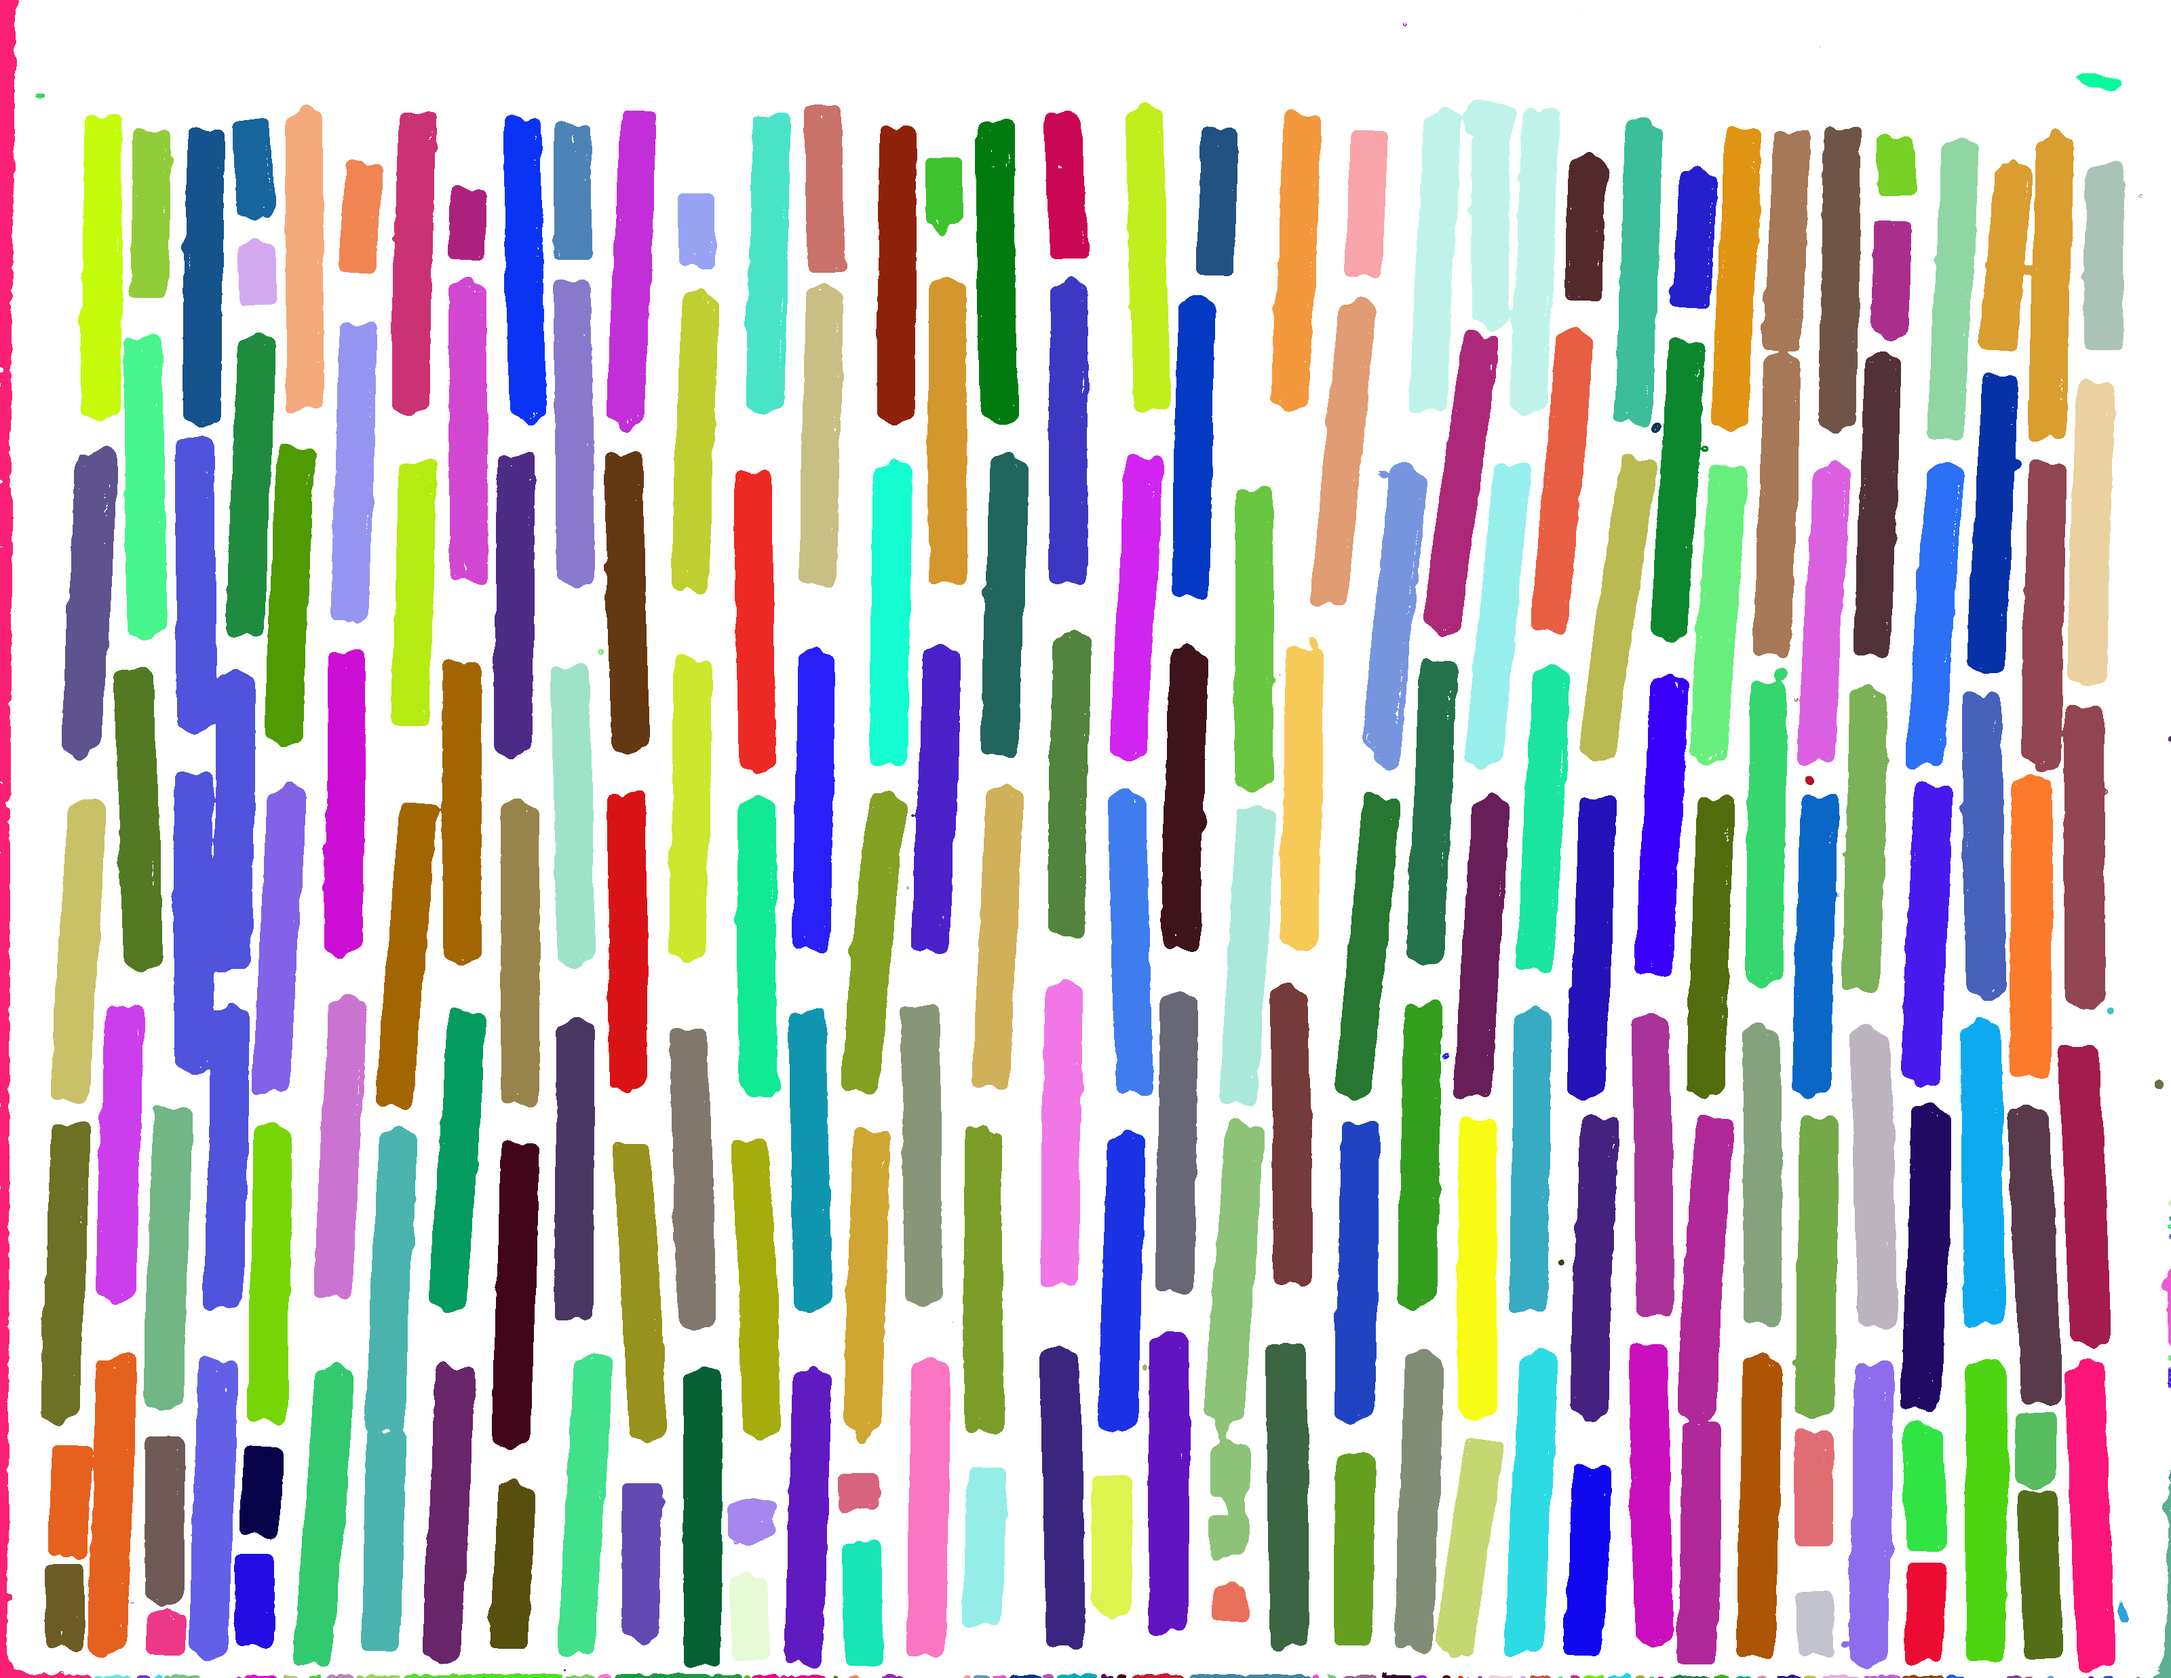
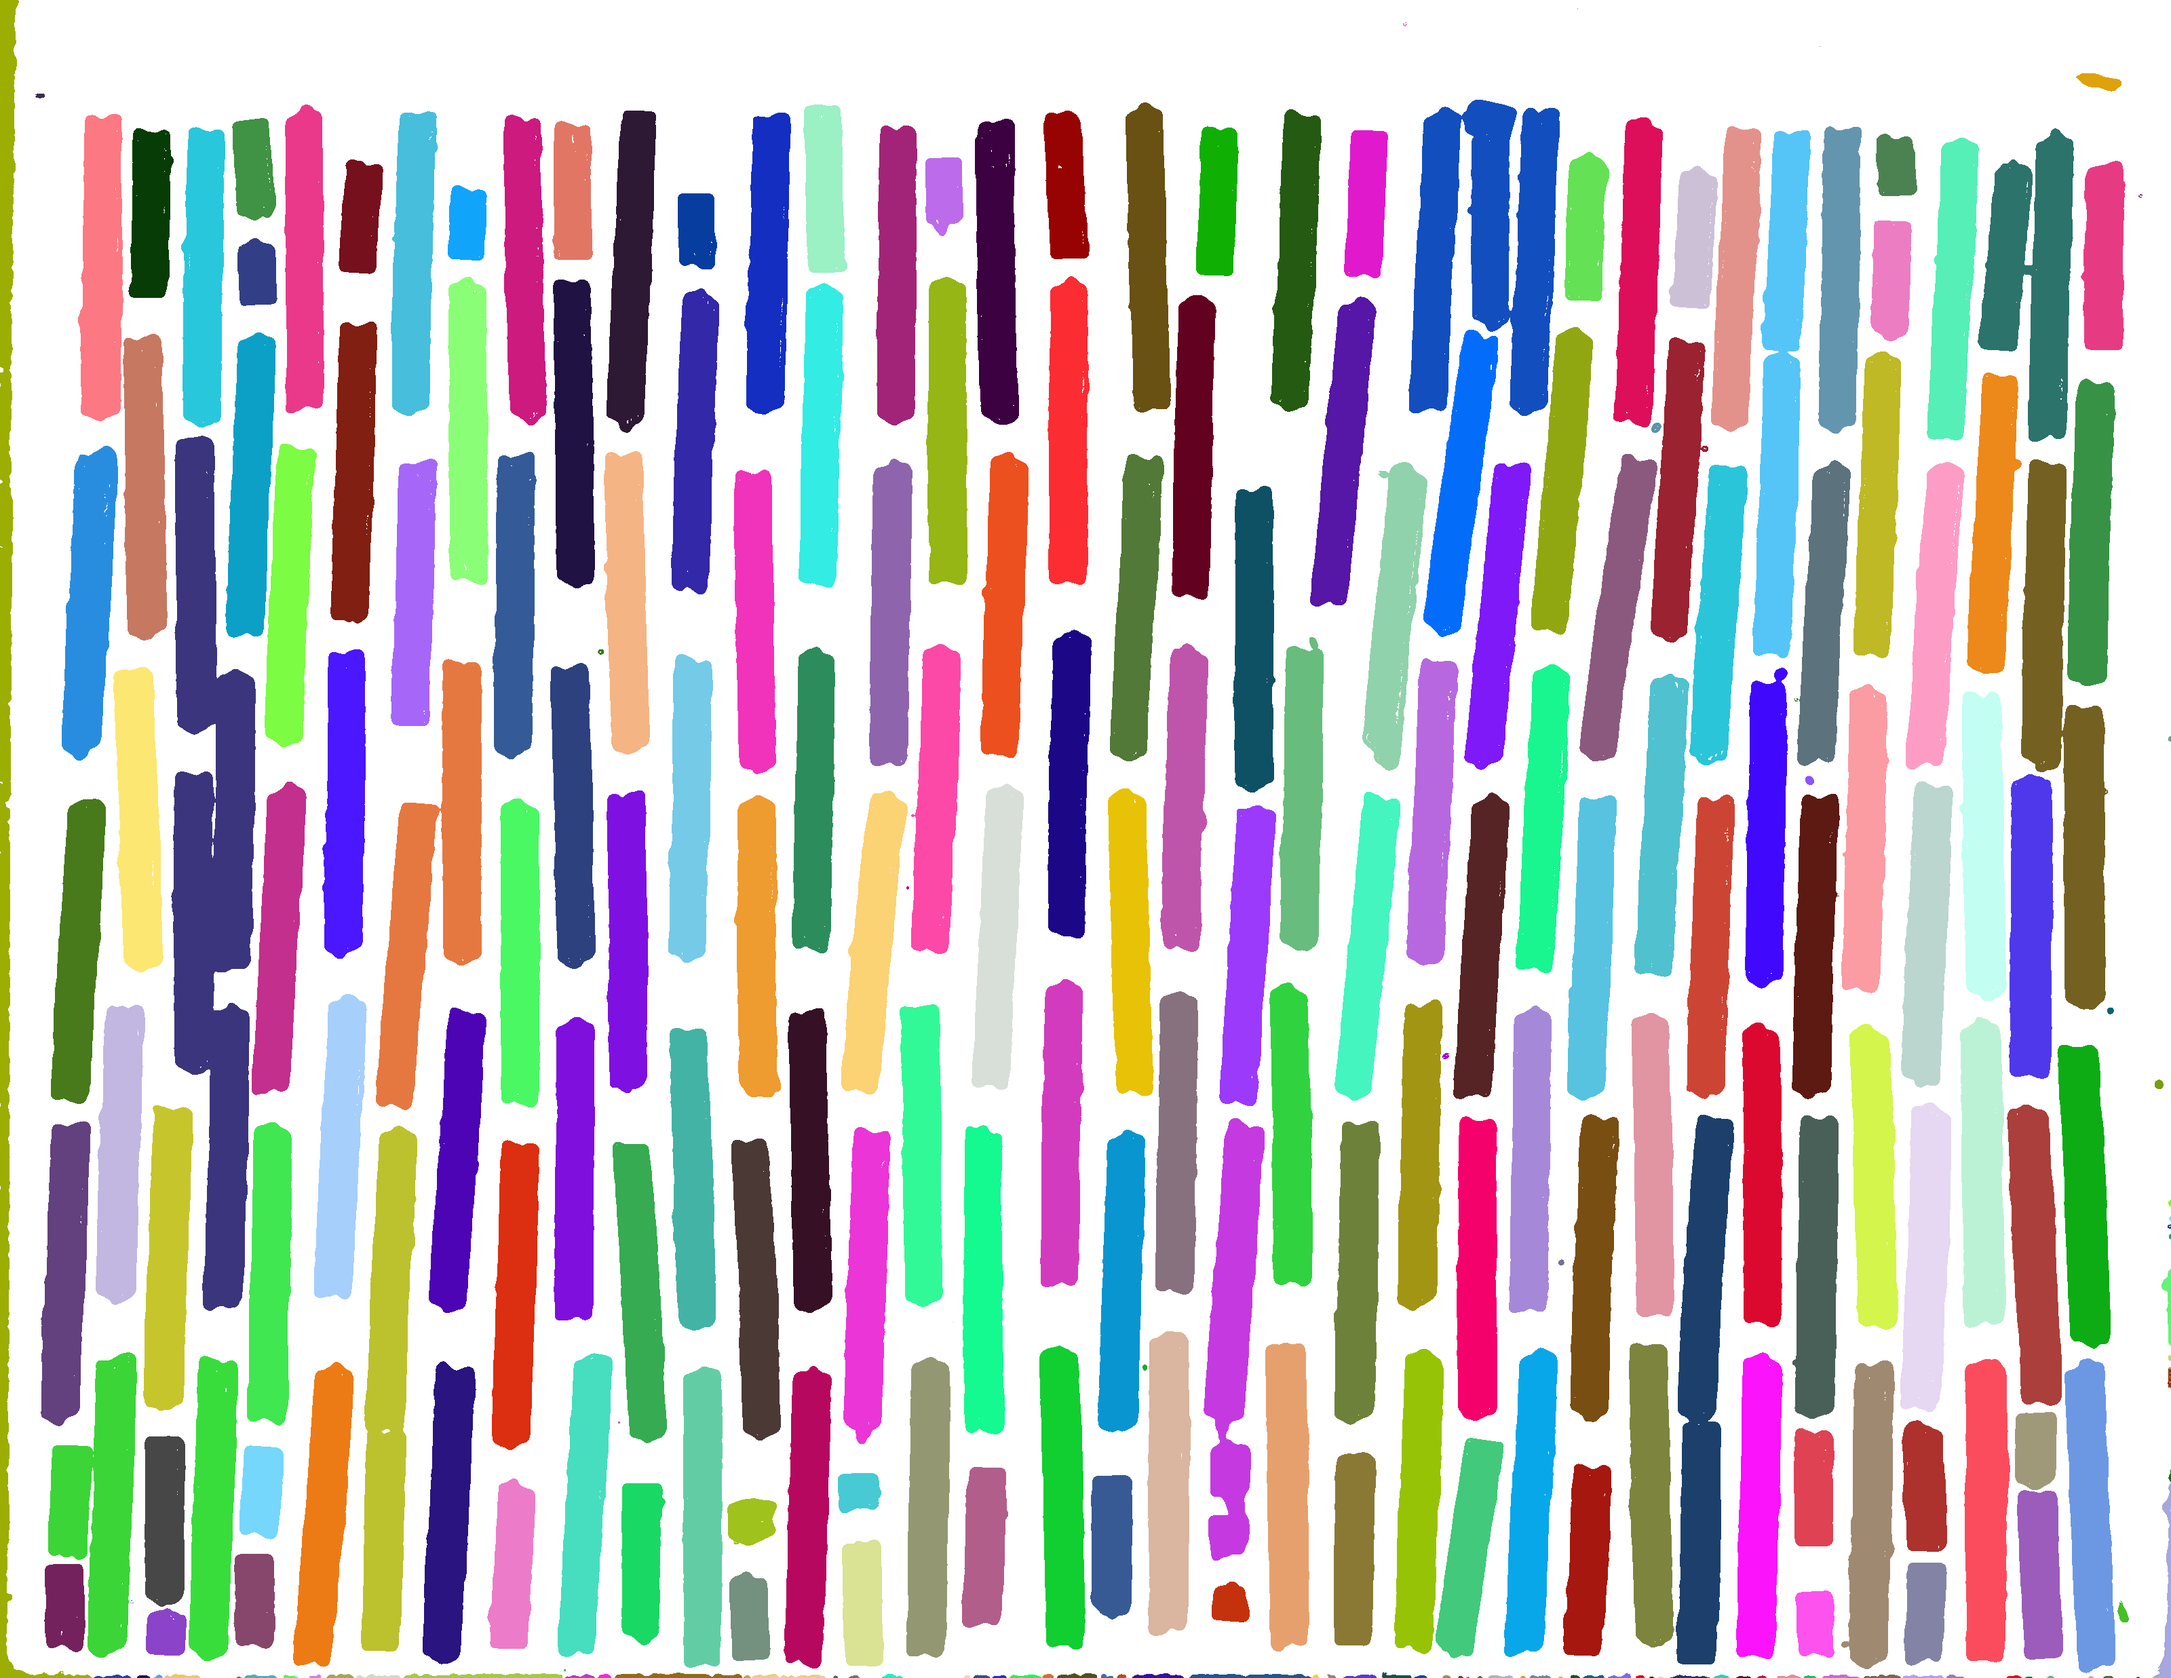
Blob detection now saves with transparent output

diff --git a/src/BlobDetector.java b/src/BlobDetector.java
@@ -97,7 +97,7 @@ public class BlobDetector {
             blobColors[i] = randomColor.getRGB();
         }
         System.out.println("Creating outImage");
-        BufferedImage outImage = new BufferedImage(baseImage.getWidth(), baseImage.getHeight(), BufferedImage.TYPE_INT_RGB);
+        BufferedImage outImage = new BufferedImage(baseImage.getWidth(), baseImage.getHeight(), BufferedImage.TYPE_INT_ARGB);
         for (int x = 0; x < baseImage.getWidth(); x++) {
             for (int y = 0; y < baseImage.getHeight(); y++) {
                 if (blobs[x][y] == 0) {
@@ -124,7 +124,7 @@ public class BlobDetector {
             directory.mkdir();
         }
         for (BlobRegion region : blobRegions) {
-            BufferedImage regionImage = new BufferedImage(region.maxX - region.minX + 1, region.maxY - region.minY + 1, BufferedImage.TYPE_INT_RGB);
+            BufferedImage regionImage = new BufferedImage(region.maxX - region.minX + 1, region.maxY - region.minY + 1, BufferedImage.TYPE_INT_ARGB);
             for (int x = region.minX; x <= region.maxX; x++) {
                 for (int y = region.minY; y <= region.maxY; y++) {
                     if (blobs[x][y] != region.blobNum) {
